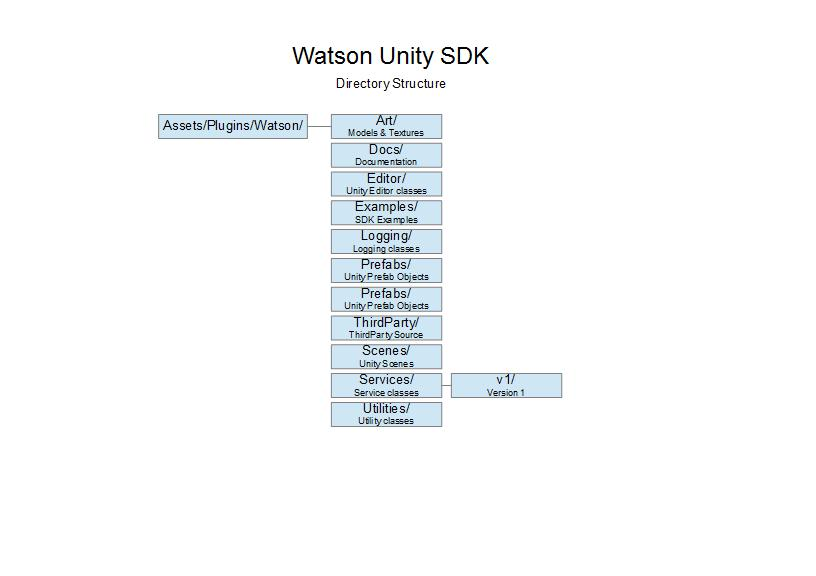
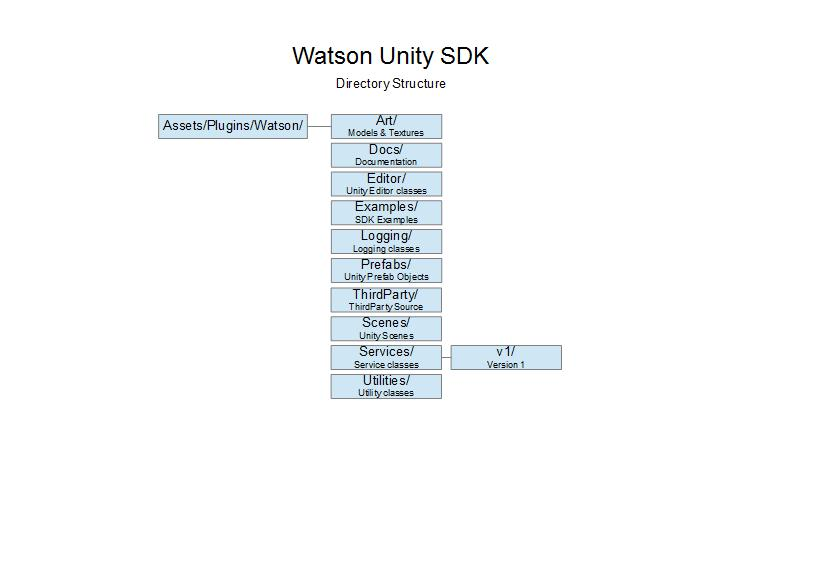
* Added ContentType to the Connector.Request object. * Updated the Unity SDK diagrams.

Changed region(s): [[0.3983, 0.4688, 0.7047, 0.75]]

diff --git a/Services/v1/SpeechToText.cs b/Services/v1/SpeechToText.cs
@@ -14,14 +14,27 @@
 * limitations under the License.
 */
 
-using System;
-using System.Collections.Generic;
-using System.Linq;
-using System.Text;
+using UnityEngine;
 
 namespace IBM.Watson.Services.v1
 {
     class SpeechToText
     {
+        public class Results
+        {
+
+        };
+        public delegate void OnSpeechToText( Results results );
+        
+        /// <summary>
+        /// 
+        /// </summary>
+        /// <param name="clip"></param>
+        /// <param name="callback"></param>
+        /// <returns></returns>
+        public bool ToText( AudioClip clip, OnSpeechToText callback )
+        {
+            return true;
+        }
     }
 }

diff --git a/Connection/RESTConnector.cs b/Connection/RESTConnector.cs
@@ -124,7 +124,11 @@ namespace IBM.Watson.Connection
                 {
                     Dictionary<string,string> headers = new Dictionary<string, string>();
                     AddAuthorizationHeader( headers );
-                    headers["Content-Type"] = "application/json";
+
+                    string sContentType = req.ContentType;
+                    if ( string.IsNullOrEmpty( sContentType ) )
+                        sContentType = "application/json";
+                    headers["Content-Type"] = sContentType;
 
                     State = ConnectionState.CONNECTED;
                     if ( OnOpen != null )

diff --git a/Connection/Connector.cs b/Connection/Connector.cs
@@ -96,6 +96,10 @@ namespace IBM.Watson.Connection
             /// </summary>
             public byte [] Send { get; set; }
             /// <summary>
+            /// The type of content to send, the default is "application/json"
+            /// </summary>
+            public string ContentType { get; set; }
+            /// <summary>
             /// The callback that is invoked when a response is received.
             /// </summary>
             public ResponseEvent OnResponse { get; set; }
